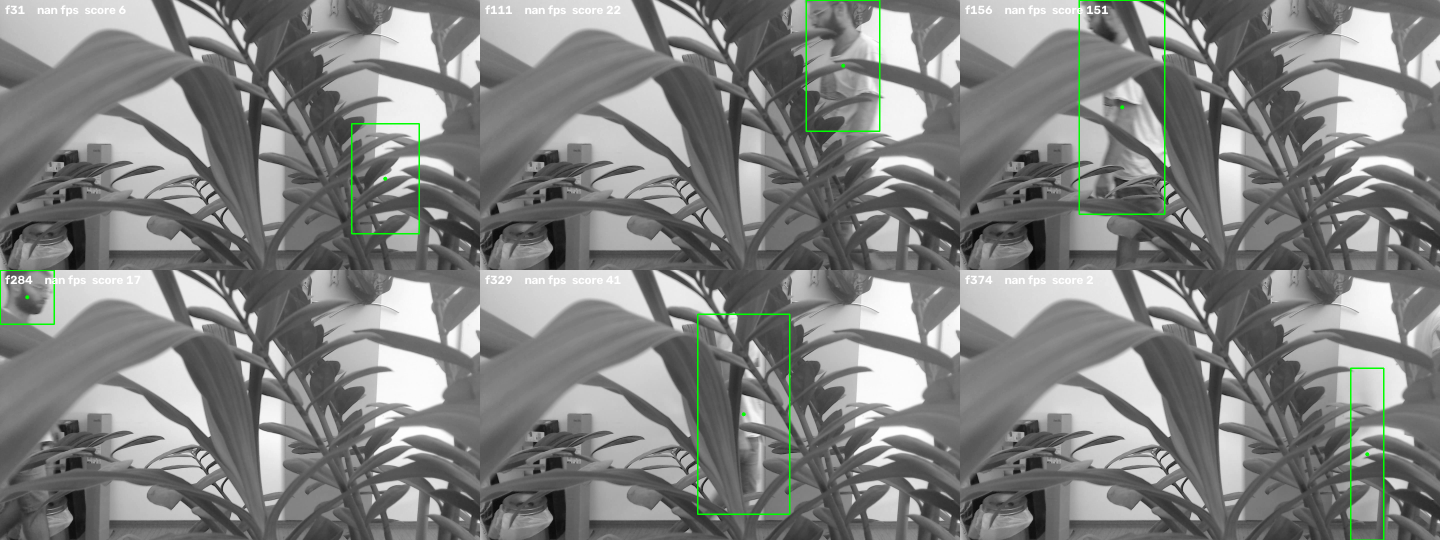
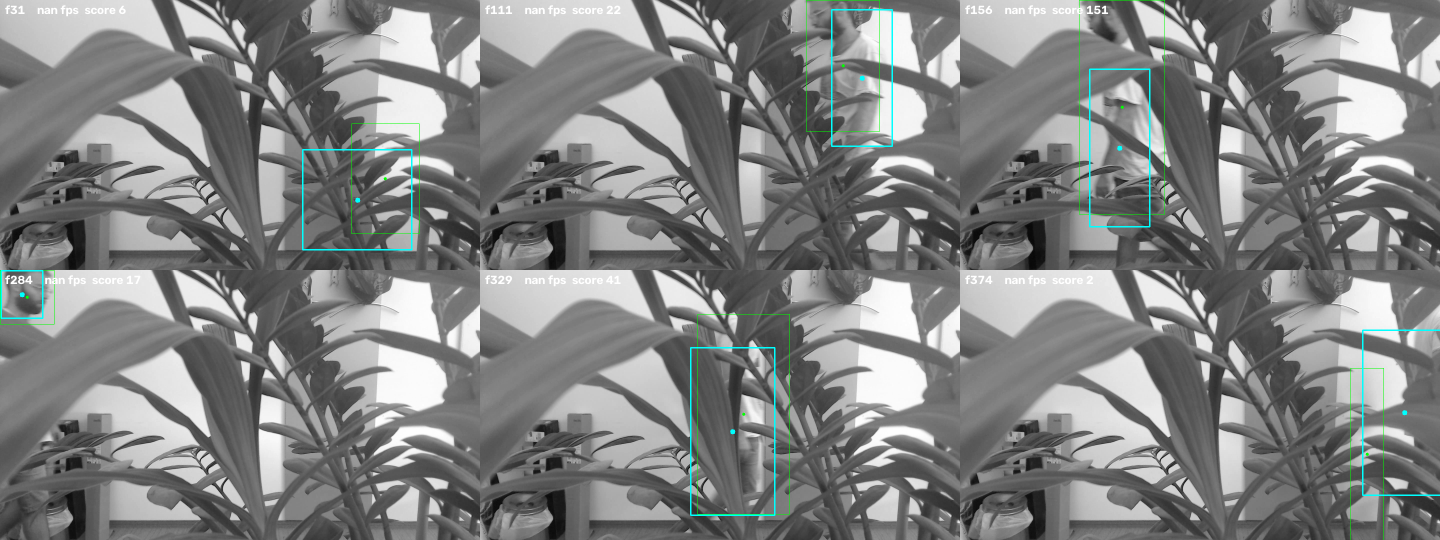
Add Holt smoothing with a validation gate, a webcam source, and GT-scored evaluation
SMOOTHER. Holt's linear (double) exponential smoothing of the reported position, with an
EMA on the box size, a validation gate and a coast. Not a plain first-order EMA: that lags a
target moving at v by v*tau, which at ~8px/frame and a 0.15s half-life is ~40px on a 421px
person, about 10% of a body height of systematic error bought with the jitter it removes.
Holt carries a trend term, so it is unbiased for constant velocity - which is exactly the
motion model the tracker already assumes. Measured lag: +0.012px against ~25px for a plain
EMA at the same half-life.

Both constants are half-lives IN SECONDS, converted with the real frame interval, so
behaviour is identical at 24 fps and at whatever a webcam delivers. A per-frame alpha would be
a hidden frame-rate constant - the same class of mistake as a hidden pixel constant. The gate
is in person heights. No absolute constants are introduced.

GT-SCORED ON ALL FOUR NFO SEQUENCES, and it improves every metric on every sequence:

  seq   jitter raw -> smoothed   resid raw -> smoothed   hit@0.1 raw -> smoothed   coasting
  seq1     6.31 ->  0.62           0.028 -> 0.023          0.983 -> 1.000            4.0%
  seq2    80.50 -> 14.17           0.112 -> 0.085          0.694 -> 0.805           15.9%
  seq3    88.03 -> 19.37           0.079 -> 0.054          0.803 -> 0.896           22.5%
  seq4    42.87 ->  8.94           0.079 -> 0.057          0.775 -> 0.920            8.9%
[…]

diff --git a/tracking/stream/stream.py b/tracking/stream/stream.py
@@ -25,6 +25,8 @@ On the readout frame (--readout):
   asserted - run the demo twice and compare the printed jitter.
 """
 import argparse
+import os
+import threading
 import time
 from collections import deque
 from dataclasses import dataclass
@@ -52,6 +54,7 @@ class Result:
     extrapolated: bool                  # readout frame had no detection in the winning track
     score: float | None
     winner: dict | None
+    smooth: tuple = None       # ((x, y), (w, h), coasting) from Smoother, filled by run()
 
 
 class StreamPipeline:
@@ -106,7 +109,161 @@ class StreamPipeline:
                       score=r and r['score'], winner=r and r['winner'])
 
 
+class Smoother:
+    """Holt's linear (double) exponential smoothing of the tracker's output, with a validation
+    gate and coast.
+
+    WHY NOT A PLAIN EMA. A first-order EMA with time constant tau lags a target moving at v by
+    v*tau. Measured on ido_walk the person moves ~8px per frame, so a 0.15s half-life (tau ~ 5
+    frames at 24fps) would cost ~40px of systematic lag on a 421px person - about 10% of a body
+    height - bought with the jitter it removes. Holt's method carries a TREND term as well as a
+    level, so it is unbiased for constant velocity, which is exactly the motion model the
+    tracker already assumes:
+
+        level_t = a*z_t + (1-a)*(level_{t-1} + trend_{t-1})
+        trend_t = b*(level_t - level_{t-1}) + (1-b)*trend_{t-1}
+
+    WHY A GATE. The failure this is actually for - the tracker jumping to a foliage blob for a
+    handful of frames - is not something a linear low-pass can reject: it averages the outlier
+    in and spreads it over MORE frames than it arrived in. So a measurement further than
+    jump_max person-heights from the prediction is rejected and the filter coasts on its own
+    trend, for at most hold_s seconds; past that the jump is accepted, because the person may
+    genuinely have been re-acquired somewhere else. That is the validation-gate-and-coast of
+    classical target tracking (Blackman and Popoli), applied to the OUTPUT rather than to
+    association - track_blobs already gates association with max_dist.
+
+    Both smoothing constants are half-lives IN SECONDS, converted with the real frame interval,
+    so behaviour is identical at 24 fps and at whatever a webcam delivers. A per-frame alpha
+    would be a hidden frame-rate constant - the same class of mistake as a hidden pixel
+    constant, which this codebase spent a lot of effort removing.
+
+    Latency: a half-life h adds a group delay of roughly h to the reported position, on top of
+    the tracker's SPAN=6 frames of lookahead. At the 0.15s default and 24 fps that is ~3.6
+    frames, so the end-to-end budget is ~10 frames (0.4s), not 6.
+    """
+
+    def __init__(self, person_height: float, fps: float, halflife_s: float = 0.15,
+                 trend_halflife_s: float = 0.5, size_halflife_s: float = 0.4,
+                 jump_max: float = 0.75, hold_s: float = 0.35):
+        dt = 1.0 / max(fps, 1e-6)
+        self.a = 1.0 - 0.5 ** (dt / max(halflife_s, 1e-6))
+        self.b = 1.0 - 0.5 ** (dt / max(trend_halflife_s, 1e-6))
+        self.c = 1.0 - 0.5 ** (dt / max(size_halflife_s, 1e-6))
+        self.jump_max = jump_max * person_height
+        self.hold = max(1, int(round(hold_s * fps)))
+        self.reset()
+
+    def reset(self):
+        self.level = None
+        self.trend = np.zeros(2)
+        self.size = None
+        self.misses = 0
+
+    def update(self, xy, wh):
+        """xy: (x, y) or None. wh: (w, h) or None. Returns ((x, y) | None, (w, h) | None,
+        coasting)."""
+        if self.level is None:
+            if xy is None:
+                return None, None, False
+            self.level, self.trend = np.array(xy, float), np.zeros(2)
+            if wh is not None:
+                self.size = np.array(wh, float)
+            return self._out(False)
+
+        pred = self.level + self.trend
+        gated = xy is None or float(np.hypot(*(np.array(xy, float) - pred))) > self.jump_max
+        if gated:
+            self.misses += 1
+            if self.misses > self.hold:
+                self.reset()
+                return self.update(xy, wh)
+            self.level = pred          # coast on the trend
+            return self._out(True)
+
+        self.misses = 0
+        prev, z = self.level, np.array(xy, float)
+        self.level = self.a * z + (1.0 - self.a) * pred
+        self.trend = self.b * (self.level - prev) + (1.0 - self.b) * self.trend
+        if wh is not None:
+            w = np.array(wh, float)
+            self.size = w if self.size is None else self.c * w + (1.0 - self.c) * self.size
+        return self._out(False)
+
+    def _out(self, coasting):
+        return (tuple(self.level),
+                None if self.size is None else tuple(self.size),
+                coasting)
+
+
 # --------------------------------------------------------------------------- demo
+
+def webcam_frames(index: int = 0, scale: float = 1.0, width: int = None, height: int = None):
+    """Newest-frame-only webcam source: a daemon thread writes a single slot and the consumer
+    takes whatever is there. A fixed-latency pipeline must never accumulate a backlog - if the
+    consumer falls behind, the right thing is to DROP frames, not to queue them.
+
+    Auto-exposure and auto white balance are switched off on purpose: auto-gain shifts global
+    brightness, and MOG2 reads a global brightness shift as everything-is-foreground. Static
+    camera only, for the same reason.
+    """
+    cap = cv2.VideoCapture(index)
+    assert cap.isOpened(), f"cannot open camera {index}"
+    if width:
+        cap.set(cv2.CAP_PROP_FRAME_WIDTH, width)
+    if height:
+        cap.set(cv2.CAP_PROP_FRAME_HEIGHT, height)
+    cap.set(cv2.CAP_PROP_AUTO_EXPOSURE, 0.25)   # 0.25 = manual on most V4L2 backends
+    cap.set(cv2.CAP_PROP_AUTO_WB, 0)
+    slot, stop = [None], threading.Event()
+
+    def reader():
+        while not stop.is_set():
+            ok, f = cap.read()
+            if not ok:
+                stop.set()
+                break
+            slot[0] = f
+
+    t = threading.Thread(target=reader, daemon=True)
+    t.start()
+    try:
+        while not stop.is_set():
+            f, slot[0] = slot[0], None
+            if f is None:
+                time.sleep(0.002)
+                continue
+            g = cv2.cvtColor(f, cv2.COLOR_BGR2GRAY)
+            yield g if scale == 1.0 else cv2.resize(g, None, fx=scale, fy=scale,
+                                                    interpolation=cv2.INTER_AREA)
+    finally:
+        stop.set()
+        t.join(timeout=1.0)
+        cap.release()
+
+
+def frames_from_source(path, scale: float = 1.0):
+    """A video file, a directory of greyscale jpgs (the NFO layout), or a webcam index."""
+    if isinstance(path, int) or (isinstance(path, str) and path.isdigit()):
+        yield from webcam_frames(int(path), scale)
+    elif os.path.isdir(path):
+        for n in sorted(f for f in os.listdir(path) if f.endswith('.jpg')):
+            g = cv2.imread(os.path.join(path, n), 0)
+            yield g if scale == 1.0 else cv2.resize(g, None, fx=scale, fy=scale,
+                                                    interpolation=cv2.INTER_AREA)
+    else:
+        yield from frames_from_video(path, scale)
+
+
+def load_gt(path: str):
+    """nfo_processed groundtruth.txt: `frame,x,y,w,h`, normalised. Returns {frame: (x,y,w,h)}."""
+    gt = {}
+    with open(path) as fh:
+        for line in fh:
+            parts = line.strip().split(',')
+            if len(parts) == 5:
+                gt[int(parts[0])] = tuple(float(v) for v in parts[1:])
+    return gt
+
 
 def frames_from_video(path: str, scale: float = 1.0):
     """Yield greyscale frames one at a time - the fake stream."""
@@ -128,8 +285,17 @@ def annotate(result: Result, fps: float) -> np.ndarray:
     if result.box is not None:
         x1, y1, x2, y2 = (int(round(v)) for v in result.box)
         colour = (0, 165, 255) if result.extrapolated else (0, 255, 0)
-        cv2.rectangle(vis, (x1, y1), (x2, y2), colour, 2)
-        cv2.circle(vis, (int(round(result.x)), int(round(result.y))), 4, colour, -1)
+        thin = 1 if result.smooth else 2      # raw box recedes once a smoothed one is drawn
+        cv2.rectangle(vis, (x1, y1), (x2, y2), colour, thin)
+        cv2.circle(vis, (int(round(result.x)), int(round(result.y))), 3, colour, -1)
+    if result.smooth:
+        (sxy, swh, coasting) = result.smooth
+        if sxy is not None:
+            sc = (0, 255, 255) if coasting else (255, 255, 0)
+            if swh is not None:
+                cv2.rectangle(vis, (int(sxy[0] - swh[0] / 2), int(sxy[1] - swh[1] / 2)),
+                              (int(sxy[0] + swh[0] / 2), int(sxy[1] + swh[1] / 2)), sc, 2)
+            cv2.circle(vis, (int(round(sxy[0])), int(round(sxy[1]))), 5, sc, -1)
     label = f"f{result.frame_index}  {fps:5.1f} fps"
     if result.x is None:
         label += "  no track"
@@ -137,6 +303,8 @@ def annotate(result: Result, fps: float) -> np.ndarray:
         label += f"  score {result.score:.0f}"
         if result.extrapolated:
             label += "  fitted readout"
+    if result.smooth and result.smooth[2]:
+        label += "  COASTING"
     cv2.putText(vis, label, (10, 28), cv2.FONT_HERSHEY_SIMPLEX, 0.8, (255, 255, 255), 2)
     return vis
 
@@ -159,19 +327,27 @@ def in_ranges(f: int, ranges) -> bool:
 
 def run(video: str, person_height: float, scale: float = 0.5, readout: str = 'center',
         out_dir: str = 'images/stream', tag: str = '', display: bool = False,
-        src_fps: float = 24.0, present=(), out_fps: float = None) -> dict:
+        src_fps: float = 24.0, present=(), out_fps: float = None, smooth: bool = True,
+        halflife: float = 0.15, trend_halflife: float = 0.5, jump_max: float = 0.75,
+        gt_path: str = None) -> dict:
     pipe = StreamPipeline(person_height=person_height, readout=readout)
+    sm = Smoother(person_height, src_fps, halflife_s=halflife,
+                  trend_halflife_s=trend_halflife, jump_max=jump_max) if smooth else None
+    gt = load_gt(gt_path) if gt_path else None
     if person_height / 7.5 < 40:
         print(f"note: head is ~{person_height / 7.5:.0f}px at this scale; face-level tasks "
               f"are not viable, person detection is the realistic downstream task")
 
     writer, results, t_start, shown, compute = None, [], time.perf_counter(), 0, 0.0
-    for frame in frames_from_video(video, scale):
+    for frame in frames_from_source(video, scale):
         t0 = time.perf_counter()
         r = pipe.step(frame)
         compute += time.perf_counter() - t0
         if r is None:
             continue
+        if sm is not None:
+            wh = None if r.box is None else (r.box[2] - r.box[0], r.box[3] - r.box[1])
+            r.smooth = sm.update(None if r.x is None else (r.x, r.y), wh)
         results.append(r)
         fps = len(results) / (time.perf_counter() - t_start)
         vis = annotate(r, fps)
@@ -202,7 +378,10 @@ def run(video: str, person_height: float, scale: float = 0.5, readout: str = 'ce
     extrap = [r for r in results if r.extrapolated]
     montage([r for r in boxed if in_ranges(r.frame_index, present)],
             f"{out_dir}/{tag or readout}_montage.png")
-    xs = {r.frame_index: r.x for r in results if r.x is not None and in_ranges(r.frame_index, present)}
+    keep = lambda r: in_ranges(r.frame_index, present)
+    xs = {r.frame_index: r.x for r in results if r.x is not None and keep(r)}
+    sxs = {r.frame_index: r.smooth[0][0] for r in results
+           if r.smooth and r.smooth[0] is not None and keep(r)}
     stats = dict(readout=readout, emitted=len(results), boxed=len(boxed),
                  extrapolated=len(extrap),
                  # compute cost, never the paced interval - with --display the two differ
@@ -210,6 +389,26 @@ def run(video: str, person_height: float, scale: float = 0.5, readout: str = 'ce
                  fps=pipe.seen / compute, wall_fps=shown / wall,
                  jitter_px=jitter(xs), jitter_n=len(xs),
                  latency_frames=SPAN if readout == 'center' else 0)
+    if sm is not None:
+        stats.update(jitter_smoothed=jitter(sxs), jitter_n_smoothed=len(sxs),
+                     coasting=sum(1 for r in results if r.smooth and r.smooth[2]) / max(len(results), 1))
+    if gt is not None:
+        H, W = results[0].frame.shape[:2]
+        for tag, get in (('raw', lambda r: (r.x, r.y) if r.x is not None else None),
+                         ('smoothed', lambda r: r.smooth[0] if r.smooth else None)):
+            res = []
+            for r in results:
+                p = get(r)
+                if p is None or r.frame_index not in gt:
+                    continue
+                g = gt[r.frame_index]
+                res.append(float(np.hypot((p[0] - (g[0] + g[2] / 2) * W) / W,
+                                          (p[1] - (g[1] + g[3] / 2) * H) / H)))
+            if res:
+                res = np.array(res)
+                stats[f'resid_{tag}'] = float(res.mean())
+                stats[f'hit_{tag}'] = float((res <= 0.1).mean())
+                stats[f'n_{tag}'] = len(res)
     print("  ".join(f"{k}={v:.3f}" if isinstance(v, float) else f"{k}={v}"
                     for k, v in stats.items()))
     return stats
@@ -317,7 +516,20 @@ def measure_presence(video: str, scale: float = 0.5, out_dir: str = 'images/stre
 def main():
     p = argparse.ArgumentParser(description=__doc__,
                                 formatter_class=argparse.RawDescriptionHelpFormatter)
-    p.add_argument('--video', default='data/ido_walk.mkv')
+    p.add_argument('--video', default='data/ido_walk.mkv',
+                   help='video file, directory of greyscale jpgs, or a webcam index (e.g. 0)')
+    p.add_argument('--no-smooth', dest='smooth', action='store_false',
+                   help='report the raw per-frame tracker output with no smoothing')
+    p.add_argument('--halflife', type=float, default=0.15,
+                   help='position half-life in SECONDS (frame-rate independent)')
+    p.add_argument('--trend-halflife', type=float, default=0.5,
+                   help="half-life of Holt's trend term, in seconds")
+    p.add_argument('--jump-max', type=float, default=0.75,
+                   help='reject-and-coast gate on the smoother, in person heights')
+    p.add_argument('--src-fps', type=float, default=24.0,
+                   help='source frame rate; sets the smoother constants and --display pacing')
+    p.add_argument('--gt', default=None,
+                   help='nfo_processed groundtruth.txt to score residual/hit against')
     p.add_argument('--scale', type=float, default=0.5, help='resize factor applied to every frame')
     p.add_argument('--person-height', type=float, default=None,
                    help='person height in pixels AFTER --scale; estimated from the footage if omitted')
@@ -344,7 +556,8 @@ def main():
 
     height = a.person_height
     if height is None:
-        probe = np.stack([f for i, f in enumerate(frames_from_video(a.video, a.scale)) if i % 4 == 0][:60])
+        assert not a.video.isdigit(), "--person-height is required for a webcam source"
+        probe = np.stack([f for i, f in enumerate(frames_from_source(a.video, a.scale)) if i % 4 == 0][:60])
         height = estimate_person_height(probe)
         print(f"estimated person height {height:.1f}px from {len(probe)} probe frames "
               f"(pass --person-height to override; the estimator is unreliable on footage "
@@ -353,7 +566,9 @@ def main():
         compare_readouts(a.video, height, scale=a.scale, out_dir=a.out_dir, present=present)
     else:
         run(a.video, height, scale=a.scale, readout=a.readout, out_dir=a.out_dir, tag=a.tag,
-            display=a.display, present=present, out_fps=a.out_fps)
+            display=a.display, present=present, out_fps=a.out_fps, smooth=a.smooth,
+            halflife=a.halflife, trend_halflife=a.trend_halflife, jump_max=a.jump_max,
+            src_fps=a.src_fps, gt_path=a.gt)
 
 
 if __name__ == '__main__':

diff --git a/tracking/tests/sanity_check_stream.py b/tracking/tests/sanity_check_stream.py
@@ -5,7 +5,7 @@
 import numpy as np
 
 from tracking.core.blob_tracker import merged_center
-from tracking.stream.stream import StreamPipeline, SPAN, BUFFER, jitter
+from tracking.stream.stream import Smoother, StreamPipeline, SPAN, BUFFER, jitter
 
 
 def make_moving_bar(T=40, H=120, W=240, speed=3, bar_h=60, bar_w=25):
@@ -105,8 +105,50 @@ def check_streaming_matches_the_offline_evaluator(video='data/ido_walk.mkv', sca
     print(f"offline parity ok: {len(centers)} windows, {n_both} tracked, identical to the bit")
 
 
+def check_smoother_has_no_lag_on_constant_velocity():
+    """Holt's trend term exists precisely so a constant-velocity target is not lagged. A plain
+    first-order EMA would sit v*tau behind; this must not."""
+    sm = Smoother(person_height=100.0, fps=25.0, halflife_s=0.15)
+    v = 5.0
+    for t in range(80):
+        out, _, coast = sm.update((10.0 + v * t, 50.0), (30.0, 90.0))
+    lag = (10.0 + v * 79) - out[0]
+    assert abs(lag) < 0.5, f"constant-velocity lag {lag:.2f}px - the trend term is not working"
+    print(f"smoother ok: constant-velocity lag {lag:+.3f}px (a plain EMA would lag ~{v * 5:.0f}px)")
+
+
+def check_smoother_gates_an_outlier_but_relocks_on_a_sustained_jump():
+    sm = Smoother(person_height=100.0, fps=25.0, halflife_s=0.15, jump_max=0.75, hold_s=0.35)
+    for t in range(40):
+        out, _, _ = sm.update((100.0, 50.0), (30.0, 90.0))
+    settled = out[0]
+    out, _, coast = sm.update((900.0, 50.0), (30.0, 90.0))        # one wild frame
+    assert coast, "a 800px jump on a 100px person should be gated, not followed"
+    assert abs(out[0] - settled) < 5.0, f"gated frame still moved the estimate to {out[0]:.0f}"
+    for t in range(40):                                            # sustained: must re-lock
+        out, _, coast = sm.update((900.0, 50.0), (30.0, 90.0))
+    assert abs(out[0] - 900.0) < 5.0, f"never re-locked; stuck at {out[0]:.0f}"
+    print("smoother ok: single outlier gated, sustained jump re-locked")
+
+
+def check_smoother_constants_are_frame_rate_independent():
+    """Half-lives are in seconds, so the same wall-clock smoothing must result at any fps."""
+    outs = []
+    for fps in (12.0, 24.0, 48.0):
+        sm = Smoother(person_height=100.0, fps=fps, halflife_s=0.2)
+        n = int(round(2.0 * fps))                                  # two seconds either way
+        for t in range(n):
+            out, _, _ = sm.update((0.0 if t < n // 2 else 60.0, 0.0), (30.0, 90.0))
+        outs.append(out[0])
+    assert max(outs) - min(outs) < 2.0, f"fps-dependent smoothing: {outs}"
+    print(f"smoother ok: frame-rate independent ({['%.2f' % o for o in outs]} at 12/24/48 fps)")
+
+
 def main():
     check_merged_center_box_is_additive()
+    check_smoother_has_no_lag_on_constant_velocity()
+    check_smoother_gates_an_outlier_but_relocks_on_a_sustained_jump()
+    check_smoother_constants_are_frame_rate_independent()
     check_jitter_is_zero_on_constant_velocity()
     check_pipeline_emits_for_the_buffer_center()
     check_newest_readout_is_zero_latency()
